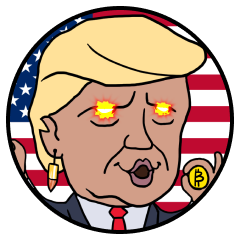
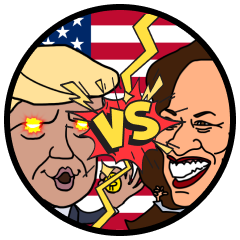
update content

diff --git a/src/components/ContactUsModal/index.tsx b/src/components/ContactUsModal/index.tsx
@@ -384,10 +384,10 @@ const ContactUsModal = ({ isShow, onHide, onSuccesCB, params }: any) => {
           <Flex direction={'column'} padding={'28px'} justifyContent={'center'} alignItems={'center'} color={'black'}
                 backgroundColor={'#F4F4F4'} gap={'20px'}>
             <Text fontSize={['32px']} fontWeight={500}>
-              You’re in great company
+              Build with the Best
             </Text>
             <Text fontSize={['18px']} fontWeight={400} textAlign={'center'}>
-              8,500+ businesses use Front to delight customers and deliver exceptional service at scale
+              Build your blockchain with ease using modules from the biggest names in the industry.
             </Text>
             <div className={s.brand}>
               {DATA_BRAND.map((item) => {

diff --git a/src/modules/landingV3/Componets/HeroV2/index.tsx b/src/modules/landingV3/Componets/HeroV2/index.tsx
@@ -29,8 +29,7 @@ export default function HeroV2() {
           </h3>
           <div className={s.desc}>
             <p>
-              Join the wave of developers building blockchains and decentralized applications. With its simple and
-              intuitive interface, BVM is the perfect starting point for your blockchain journey.
+              Join the wave of developers building blockchains and decentralized applications. With its simple and intuitive interface, our blockchain platform is the perfect starting point for your blockchain journey.
             </p>
           </div>
           <div className={s.groupBtn}>

diff --git a/src/modules/landingV3/Componets/CaseStudy/index.tsx b/src/modules/landingV3/Componets/CaseStudy/index.tsx
@@ -9,7 +9,7 @@ export default function CaseStudy() {
         <img src="/trump.png" alt="Case Study" />
       </div>
       <div className={s.caseStudy}>
-        <p className={s.caseStudy_title}>BITCOIN MAGA</p>
+        <p className={s.caseStudy_title}>BITCOIN WARS</p>
         <p  className={s.caseStudy_description}>The first fully on-chain game built on a ZK Rollup on the Bitcoin network.</p>
       </div>
       <div className={s.caseStudy_button}>

diff --git a/src/modules/landingV3/Componets/CaseStudy/styles.module.scss b/src/modules/landingV3/Componets/CaseStudy/styles.module.scss
@@ -1,5 +1,5 @@
 .inner {
-  padding-bottom: 80px;
+  padding: 80px 0;
   display: flex;
   flex-direction: column;
   justify-content: center;
